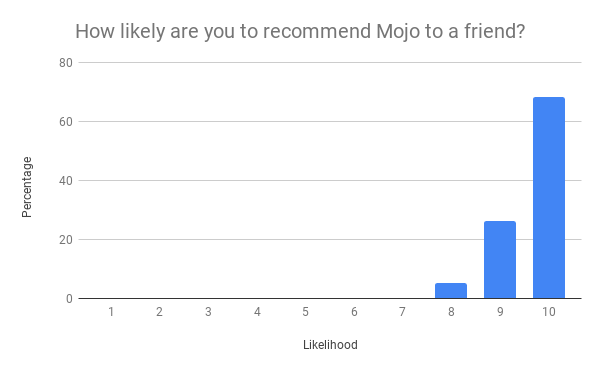
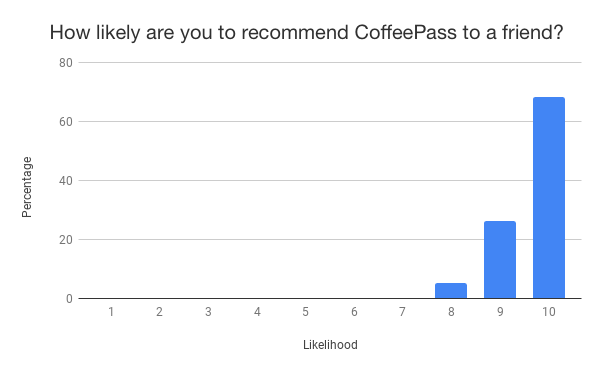
updated blog to coffeepass branding

Changed region(s): [[0.06, 0.0593, 0.96, 0.1186]]

diff --git a/_layouts/default.html b/_layouts/default.html
@@ -11,7 +11,7 @@
 {% if page.description %}<meta name="description" content="{{ page.description }}">{% endif %} 
 
 <meta property="og:title" content="{{ page.title }} | {{site.name}}" />
-<meta property="og:image" content="http://blog.mojocoffee.io/{{ page.image }}" />
+<meta property="og:image" content="http://blog.coffeepass.io/{{ page.image }}" />
     
 <link rel="stylesheet" href="https://stackpath.bootstrapcdn.com/bootstrap/4.1.3/css/bootstrap.min.css" integrity="sha384-MCw98/SFnGE8fJT3GXwEOngsV7Zt27NXFoaoApmYm81iuXoPkFOJwJ8ERdknLPMO" crossorigin="anonymous">
     
@@ -48,7 +48,7 @@
     <div class="container pr-0">    
     
     <!-- Begin Logo -->
-    <a class="navbar-brand" href="https://mojocoffee.io">
+    <a class="navbar-brand" href="https://coffeepass.io">
         <img src="{{ site.baseurl }}/{{site.logo}}" alt="{{ site.name }}">
     </a>
     <!-- End Logo -->
@@ -73,15 +73,15 @@
                 </li>
                 
                 <li class="nav-item">
-                    <a class="nav-link" href="https://mojocoffee.io/#/aboutus"> About</a>
+                    <a class="nav-link" href="https://coffeepass.io/#/aboutus"> About</a>
                 </li>
 
                 <li class="nav-item">
-                    <a class="nav-link" href="https://mojocoffee.io/#/shoplanding"> What's Mojo?</a>
+                    <a class="nav-link" href="https://coffeepass.io/#/shoplanding"> What's CoffeePass?</a>
                 </li>
 
                 <li class="nav-item">
-                    <a target="_blank" class="nav-link" href="https://www.facebook.com/Mojo-Order-Ahead-276312713022245"><i class="fab fa-facebook-f"></i></a>
+                    <a target="_blank" class="nav-link" href="https://www.facebook.com/CoffeePass-Order-Ahead-276312713022245"><i class="fab fa-facebook-f"></i></a>
                 </li>
                 
             </ul>		

diff --git a/_layouts/post.html b/_layouts/post.html
@@ -36,7 +36,7 @@ post_class: post-template
                 {% endif %}
                 
                 <!-- Post Title -->
-				<h1 class="posttitle mojo-color">{{ page.title }}</h1> 
+				<h1 class="posttitle CoffeePass-color">{{ page.title }}</h1> 
                 
 			</div>
 

diff --git a/assets/css/screen.css b/assets/css/screen.css
@@ -664,7 +664,7 @@ License: https://www.wowthemes.net/freebies-license/
     font-size: 300%;
 }
 
-.mojo-color {
+.CoffeePass-color {
     color: #56719e;
 }
 

diff --git a/_posts/2018-12-15-case-study.md b/_posts/2018-12-15-case-study.md
@@ -2,52 +2,52 @@
 layout: post
 title:  "Wayfarer Case Study"
 author: drew
-categories: [ Mojo, Wayfarer, Data ]
+categories: [ CoffeePass, Wayfarer, Data ]
 image: assets/images/wayfarer_shop.jpeg
 featured: false
 hidden: false
 description: "This Case Study takes a look at evaluating how we’ve done at adding value for an independent coffee shop."
 ---
 
-We set out to build the perfect order-ahead platform for local coffee shops, but quickly realized that the only way to get to perfection was to listen closely to our users. After building out a prototype, we launched at [Wayfarer Coffee Roasters](http://www.wayfarerroasters.com), in Laconia, NH. Since then, we’ve been getting as much feedback as possible from Karen (the owner at Wayfarer), her baristas, and the shop’s customers. Our intent was to bring value to coffee shops in three ways: by increasing revenue, improving customer experience, and maximizing shop efficiency. We’re really excited about how far we’ve come at Wayfarer, and decided to use this case study to evaluate how we’ve done at adding value for the shop. Our sample size is small, so this is intended for us to get an idea of how we’re doing and to give other shops glimpses of how [Mojo](https://mojocoffee.io) could potentially impact them. We’ve evaluated our sales data, app/site analytics tool data, and surveyed Wayfarer’s owner, baristas, and customers to get as complete of a picture as we can.
+We set out to build the perfect order-ahead platform for local coffee shops, but quickly realized that the only way to get to perfection was to listen closely to our users. After building out a prototype, we launched at [Wayfarer Coffee Roasters](http://www.wayfarerroasters.com), in Laconia, NH. Since then, we’ve been getting as much feedback as possible from Karen (the owner at Wayfarer), her baristas, and the shop’s customers. Our intent was to bring value to coffee shops in three ways: by increasing revenue, improving customer experience, and maximizing shop efficiency. We’re really excited about how far we’ve come at Wayfarer, and decided to use this case study to evaluate how we’ve done at adding value for the shop. Our sample size is small, so this is intended for us to get an idea of how we’re doing and to give other shops glimpses of how [CoffeePass](https://coffeepass.io) could potentially impact them. We’ve evaluated our sales data, app/site analytics tool data, and surveyed Wayfarer’s owner, baristas, and customers to get as complete of a picture as we can.
 
 
 
 ## Usage Overview
-{: .mojo-color}
+{: .CoffeePass-color}
 
-On May 12th, the first Mojo order ever was placed to test that the system was running properly. Three days later on the 15th, Wayfarer launched Mojo to a few of their most loyal customers as a pilot program. Since then, Wayfarer’s customers have ordered ahead 1331 times! Mojo wasn’t perfect, but by July 12th, it was running smoothly enough for Wayfarer to post about it on their social media pages. On August 3rd, they ran a social media contest and had 14 orders, a record up to that time. On November 19th, Mojo launched customer loyalty rewards, and since then, Wayfarer customers are ordering ahead more than ten times per day on average.
+On May 12th, the first CoffeePass order ever was placed to test that the system was running properly. Three days later on the 15th, Wayfarer launched CoffeePass to a few of their most loyal customers as a pilot program. Since then, Wayfarer’s customers have ordered ahead 1331 times! CoffeePass wasn’t perfect, but by July 12th, it was running smoothly enough for Wayfarer to post about it on their social media pages. On August 3rd, they ran a social media contest and had 14 orders, a record up to that time. On November 19th, CoffeePass launched customer loyalty rewards, and since then, Wayfarer customers are ordering ahead more than ten times per day on average.
 
 
 <img src="/assets/images/wayfarerOrders.png" alt="Image" style="margin: 5px 10px 0px 5px; border: 1px solid #000000;">
 
-Customers stick with Mojo once they start using it! Over half of users who try ordering on the platform are still using it a month later. We just launched rewards recently, so we don’t have a lot of data, but we’ve also seen retention improve in that time.
+Customers stick with CoffeePass once they start using it! Over half of users who try ordering on the platform are still using it a month later. We just launched rewards recently, so we don’t have a lot of data, but we’ve also seen retention improve in that time.
 
 
 ## Revenue
-{: .mojo-color}
+{: .CoffeePass-color}
 
-Mojo is dedicated to empowering and growing independent coffee shops. We understand that increasing shop revenue is an important part of that, so we set out to study how Mojo impacted a shop’s bottom line.
+CoffeePass is dedicated to empowering and growing independent coffee shops. We understand that increasing shop revenue is an important part of that, so we set out to study how CoffeePass impacted a shop’s bottom line.
 
 <div class="center" style="height: 300px; width: 300px; border: 2px solid #888888; border-radius: 5px;">
-<span class="large-font mojo-color center_text">64%</span><br>
-<span class="mojo-color center_text">of users claim to order more frequently since using Mojo</span>
+<span class="large-font CoffeePass-color center_text">64%</span><br>
+<span class="CoffeePass-color center_text">of users claim to order more frequently since using CoffeePass</span>
 </div>
 <br>
 {: .center_text .center .simple-border}
 
 
-One of Karen’s initial concerns was how Mojo would  maintain and improve her average order and encourage customers to order a sandwich or waffle along with their coffee? We have a lot of ideas on how to optimize this in the future, but have focused on more  crucial features thus far. With that in mind, we were happy to find that the average Mojo order was within 8.5% of Wayfarer’s average traditional order.
+One of Karen’s initial concerns was how CoffeePass would  maintain and improve her average order and encourage customers to order a sandwich or waffle along with their coffee? We have a lot of ideas on how to optimize this in the future, but have focused on more  crucial features thus far. With that in mind, we were happy to find that the average CoffeePass order was within 8.5% of Wayfarer’s average traditional order.
 
-One of our favorite discoveries while putting together this case study was that customers tip more through Mojo. Wayfarer Mojo users tipped more than 9% on average, which was significantly higher than their average tip on a traditional in-shop order. Some Mojo users surveyed even asked to be able to tip more, so we’re confident that average tip percentage can increase greatly , meaning more money for a shop’s baristas! Our app is currently using the simple tipping functionality from our Alpha test, and we have a lot of ideas to optimize this even further!
+One of our favorite discoveries while putting together this case study was that customers tip more through CoffeePass. Wayfarer CoffeePass users tipped more than 9% on average, which was significantly higher than their average tip on a traditional in-shop order. Some CoffeePass users surveyed even asked to be able to tip more, so we’re confident that average tip percentage can increase greatly , meaning more money for a shop’s baristas! Our app is currently using the simple tipping functionality from our Alpha test, and we have a lot of ideas to optimize this even further!
 
 
 ## Customer Experience
-{: .mojo-color}
+{: .CoffeePass-color}
 
 We know that customer experience is so important to local coffee shops! It can be one of the best ways to differentiate from big chains, and offering order-ahead is a perfect way to improve the experience for some of a shop’s customers.
 
-If you’ve ever been asked “how likely are you to recommend this to a friend?” the company behind a product you’re using was calculating their Net Promoter Score. Net Promoter Score is a metric from -100 to 100 that evaluates the customer’s satisfaction with a product or service and the customer’s brand loyalty. Customers who respond with a 9 or 10 are considered promoters, 7 or 8 are considered passive, and 6 or below are considered detractors. Net Promoter Score (NPS) is calculated as follows: % Promoter - % Detractor = NPS. 95% of Mojo users surveyed were promoters, and none were detractors, giving us a perfect NPS of 100!
+If you’ve ever been asked “how likely are you to recommend this to a friend?” the company behind a product you’re using was calculating their Net Promoter Score. Net Promoter Score is a metric from -100 to 100 that evaluates the customer’s satisfaction with a product or service and the customer’s brand loyalty. Customers who respond with a 9 or 10 are considered promoters, 7 or 8 are considered passive, and 6 or below are considered detractors. Net Promoter Score (NPS) is calculated as follows: % Promoter - % Detractor = NPS. 95% of CoffeePass users surveyed were promoters, and none were detractors, giving us a perfect NPS of 100!
 
 
 <div class="center">
@@ -55,28 +55,28 @@ If you’ve ever been asked “how likely are you to recommend this to a friend?
 </div>
 <br>
 
-As expressed by our NPS, Wayfarer’s customers loved using Mojo. They commented over and over how easy it was to use and how they loved skipping the line.
+As expressed by our NPS, Wayfarer’s customers loved using CoffeePass. They commented over and over how easy it was to use and how they loved skipping the line.
 
 <div>
-<p class="mojo-color" style="font-size: 32px; margin-bottom: 0px;">"Mojo makes customers feel special"</p>
-<p class="mojo-color" style="font-size: 24px">-Wayfarer Barista</p>
+<p class="CoffeePass-color" style="font-size: 32px; margin-bottom: 0px;">"CoffeePass makes customers feel special"</p>
+<p class="CoffeePass-color" style="font-size: 24px">-Wayfarer Barista</p>
 </div>
 {: .center}
 
-Wayfarer is located in downtown Laconia, making employees of nearby businesses some of the shop’s best customers. When we set out to build Mojo, Karen told us that a small business owner down the road would come over several times per day to  check the line length. He’d often return to his office coffee-less, as he didn’t have time to wait in line. After launching Mojo in Wayfarer, we kept a close eye on orders by that owner, and were delighted to see him use the platform. We followed up with Karen and she confirmed that Mojo had solved his problem.
+Wayfarer is located in downtown Laconia, making employees of nearby businesses some of the shop’s best customers. When we set out to build CoffeePass, Karen told us that a small business owner down the road would come over several times per day to  check the line length. He’d often return to his office coffee-less, as he didn’t have time to wait in line. After launching CoffeePass in Wayfarer, we kept a close eye on orders by that owner, and were delighted to see him use the platform. We followed up with Karen and she confirmed that CoffeePass had solved his problem.
 
 ## Efficiency
-{: .mojo-color}
+{: .CoffeePass-color}
 At peak hours, the “flow” of baristas is so important to get through orders as quickly as possible while maintaining high quality. Order-ahead provides an inherent efficiency boost!
 
-Ordering at a coffee shop can be a slow process for all but the seasoned veterans. Considering the menu, telling the barista your order, swiping your credit card, selecting a tip, and signing your name takes time. Mojo orders still take time for the user, but are much quicker for the baristas, allowing them to process more orders in a shift.
+Ordering at a coffee shop can be a slow process for all but the seasoned veterans. Considering the menu, telling the barista your order, swiping your credit card, selecting a tip, and signing your name takes time. CoffeePass orders still take time for the user, but are much quicker for the baristas, allowing them to process more orders in a shift.
 
-While it seems logical that Mojo would reduce barista time per order, we wanted to hear from the baristas themselves.  We asked them in our survey and found that half of baristas said that Mojo orders took 50% as long as traditional orders.
+While it seems logical that CoffeePass would reduce barista time per order, we wanted to hear from the baristas themselves.  We asked them in our survey and found that half of baristas said that CoffeePass orders took 50% as long as traditional orders.
 
 
 ## Conclusion
-{: .mojo-color}
+{: .CoffeePass-color}
 
-Mojo’s value is reliant on the success of the coffee shops that use it, so it was  very important to us to evaluate Mojo’s impact. We’re excited to say that Mojo is doing what it set out to do:  increasing shop revenue by bringing customers back more often, improving customer experience by letting them skip the line, and boosting efficiency by cutting down on ordering time for baristas! But this is just the beginning for [Mojo](https://mojocoffee.io). We have big plans to add even more value with new features  coming soon! Let us know what you’d like to see!
+CoffeePass’s value is reliant on the success of the coffee shops that use it, so it was  very important to us to evaluate CoffeePass’s impact. We’re excited to say that CoffeePass is doing what it set out to do:  increasing shop revenue by bringing customers back more often, improving customer experience by letting them skip the line, and boosting efficiency by cutting down on ordering time for baristas! But this is just the beginning for [CoffeePass](https://coffeepass.io). We have big plans to add even more value with new features  coming soon! Let us know what you’d like to see!
 
 

diff --git a/README.md b/README.md
@@ -1,2 +1,2 @@
 # normdoow.github.io
-Blog for Mojo
+Blog for CoffeePass
